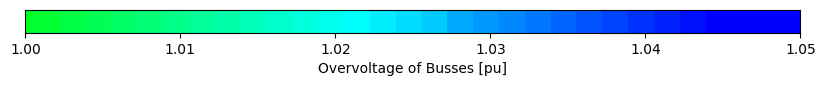
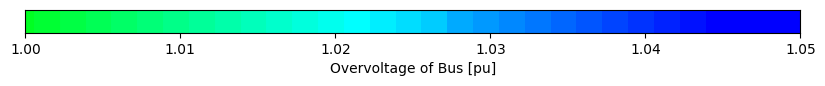
layout with bootstrap

Changed region(s): [[0.3636, 0.7209, 0.6364, 0.8837]]

diff --git a/dash-visualization-tool.py b/dash-visualization-tool.py
@@ -46,7 +46,7 @@ green_to_blue = ['#00FF00','#00FF11','#00FF22','#00FF33','#00FF44','#00FF55','#0
 cut_off_v_pu_hardcoded_undervoltage = 0.95 # cut_off_v_pu is hardcoded; below(or above) the cutt of voltage all nodes will have the same color
 cut_off_v_pu_hardcoded_overvoltage = 1.05
 
-Pandanet = netLV  # Change here to the network you want to use
+Pandanet = netMV  # Change here to the network you want to use
 pp.runpp(Pandanet) # run powerflow on the network
 
 generate_gradient_scale_line_loading(green_to_red) #auxilary function to generate an image containing a legend for the colors used to represent the power flow results
@@ -66,9 +66,10 @@ lines_to_deactivate = []
 
 app = Dash(__name__,external_stylesheets=[dbc.themes.LUX]) # An dbc-stylesheet has to be used, otherwise the dbc-layout commands will not work
 
-app.layout = html.Div([
+app.layout = dbc.Container([
+    # Container, Row and Col commands are used for the layout
 
-        dbc.Row( dbc.Col (html.H3('Visualization of Power-Flow Calculation Results'), width= {'size': 6 ,'offset': 4},)
+        dbc.Row( dbc.Col (html.H3('Visualization of Power-Flow Calculation Results', className='text-center my-4 mp-4'))
         ),
         
         dbc.Row([
@@ -86,43 +87,14 @@ app.layout = html.Div([
                     elements=generate_nodes(Pandanet,vlevel = False,colorgradient1=green_to_red,colorgradient2=green_to_blue,v_cuttoff_under=cut_off_v_pu_hardcoded_undervoltage,v_cuttoff_over=cut_off_v_pu_hardcoded_overvoltage) + generate_edges(Pandanet,Loading = False,colorgradient=green_to_red)
                     ), # create all the nodes and edges on the map; also done by auxilary fucntion
 
-                html.Img(src='assets/linegradient.png'), # display the legends for colors used to represent the power flow results
-                html.Img(src='assets/undervoltagegradient.png'),
-                html.Img(src='assets/overvoltagegradient.png'),
-                ],
-                    
+                
+                ], 
+                className="border border-secondary",    
                 width = {'size':8, 'offset': 0, 'order': 1 }
                 ),
 
                 
-        dbc.Col([
-                html.P('Display loading percentage of lines:'),
-                        
-                dcc.RadioItems( # Radioitems: User can choose between 2 values/options
-                            id = 'displayloading',
-                            options = ['Yes', 'No'],
-                            value = 'No'
-                            ),             
-                        
-                html.P('Display voltage level of busses:'),
-                        
-                dcc.RadioItems(
-                            id = 'buslevel',
-                            options = ['Yes', 'No'],
-                            value = 'No',
-                ),
-                                
-                dcc.Slider(1, 50, # sliders to alter the size of the nodes and the lines
-                            step =2,
-                            value=3,
-                            id = 'bus-size-slider',
-                        ),
-                                
-                dcc.Slider(1,10,
-                            step =1,
-                            value=1,
-                            id = 'line-size-slider',
-                        ),
+        dbc.Col([                               
                         
                 html.P(id='hover-info-node', children = ""), # children contains what will be displayed in the application, it is also the component that is changed in the callbacks
                         
@@ -148,11 +120,54 @@ app.layout = html.Div([
 
                 html.P(id='radiality',children="Radial and Connected: " + str(is_radial(Pandanet))),
 
+
+                
+
                 ]
             
-            ,width= {'size':4, 'offset': 0, 'order': 2 })
+            ,className="border border-secondary", width= {'size':4, 'offset': 0, 'order': 2 })
         ]),
-    ])
+        dbc.Row([
+            
+        dbc.Col([
+                html.Img(src='assets/linegradient.png'), # display the legends for colors used to represent the power flow results
+                html.Img(src='assets/undervoltagegradient.png'),
+                html.Img(src='assets/overvoltagegradient.png'),
+                ],width= {'size':6, 'offset': 0, 'order': 1 }
+                ),
+        dbc.Col([html.P('Display loading percentage of lines:'),
+                        
+                dcc.RadioItems( # Radioitems: User can choose between 2 values/options
+                            id = 'displayloading',
+                            options = ['Yes', 'No'],
+                            value = 'No'
+                        ),             
+                        
+                html.P('Display voltage level of busses:',className='mp-0'),
+                        
+                dcc.RadioItems(
+                            id = 'buslevel',
+                            options = ['Yes', 'No'],
+                            value = 'No',
+                            className='mp-2'
+                        ),
+                html.P('Node size: '),
+                dcc.Slider(1, 50, # sliders to alter the size of the nodes and the lines
+                            step =2,
+                            value=3,
+                            id = 'bus-size-slider',
+                        ),
+
+                html.P('line width: '),                
+                dcc.Slider(1,10,
+                            step =1,
+                            value=1,
+                            id = 'line-size-slider',
+                        ),
+                ], className="border border-secondary", width= {'size':4, 'offset': 2, 'order': 2 }),
+        ])
+
+    ], fluid=True)
 
 
 @app.callback( 

diff --git a/generate_stylesheet.py b/generate_stylesheet.py
@@ -134,7 +134,7 @@ def generate_gradient_scale_vlevel_undervoltage(colorgradient,cut_off_v_pu):
     fig, ax = matplotlib.pyplot.subplots(figsize=(10,0.3))
     ax.set_xlim(x_start, x_end)
     ax.set_yticks([])
-    matplotlib.pyplot.xlabel('Undervoltage of Busses [pu]')
+    matplotlib.pyplot.xlabel('Undervoltage of Bus [pu]')
     for x in np.arange(x_start, x_end, -step_size):
         diff = (1-x)/(x_start - x_end)*len(colorgradient) # transformation that projects the range of undervoltage (v_cuttoff - 1) onto the amount of colors in the colorgradient
         colorindex = np.floor(diff)
@@ -152,7 +152,7 @@ def generate_gradient_scale_vlevel_overvoltage(colorgradient,cut_off_v_pu):
     fig, ax = matplotlib.pyplot.subplots(figsize=(10,0.3))
     ax.set_xlim(x_start, x_end)
     ax.set_yticks([])
-    matplotlib.pyplot.xlabel('Overvoltage of Busses [pu]')
+    matplotlib.pyplot.xlabel('Overvoltage of Bus [pu]')
     for x in np.arange(x_start, x_end, step_size):
         diff = (x-1)/(x_end - x_start)*len(colorgradient) # transformation that projects the range of undervoltage (v_cuttoff - 1) onto the amount of colors in the colorgradient
         colorindex = np.floor(diff)

diff --git a/README.md b/README.md
@@ -1,2 +1,26 @@
 # EnergyVille_Internship
  Online Tool for Power Network Visualization
+
+Introduction
+
+The goal of this application is to have a interactive visualization of power-flow calculation results.
+The tool is aimed towards low voltage/Distribution grids. 
+It allows to easily open and close switches on these grids, and visualize the changes in the results of the power-flow calculations. 
+The tool is based on the ”Dash” library. This open-source library is written on top of Plotly and allows to create interactive and web-based dashboards for visualizing data.
+To display the networks (within Dash) cytoscape is used, which is a part of Plotly used for plotting any kind of network.
+Dash applications contain basic components, like sliders, buttons
+
+Basics of Dash:
+
+Dash operates via callbacks. Callbacks consist of Inputs, Outputs and a Fuction, as seen in the code. 
+Component-id defines which components are used in the callback. Component-property defines which property will be used/changed. 
+The input property is used the input of the callback-function, the output property is changed to what this function returns.
+Callbacks can only change entire component properties. 
+Only changing values of parameters used within these components will not update the components on the web-application.
+A components can only act as output of one callback. 
+This can lead to extensive callback-functions if more than one (interactive) functionality is required of a component (like the for the network plot)
+
+## HardCodings
+
+v_cut_off
+green_to_red/green_to_blue
